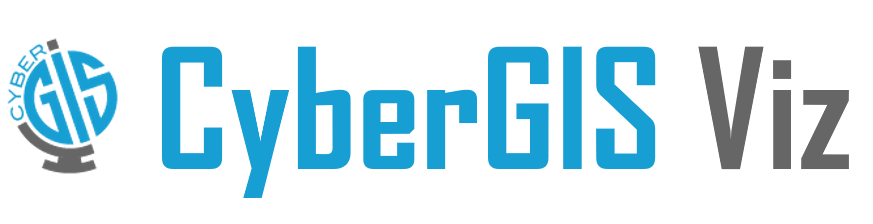
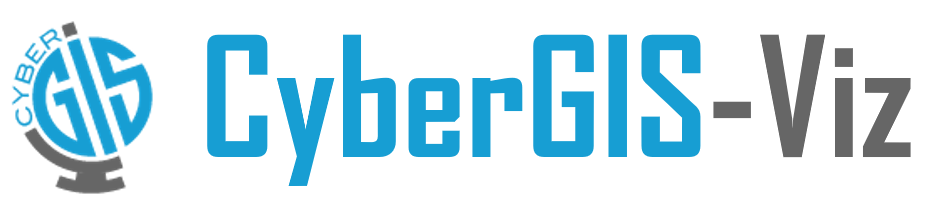
Update Readme

Changed region(s): [[0.0, 0.1132, 0.9897, 0.934]]

diff --git a/README.md b/README.md
@@ -1,21 +1,21 @@
-# CyberGIS Viz
+# CyberGIS-Viz
 
 <p align="center">
 <img height=100 src="images/CyberGIS_Viz.PNG" alt="CyberGIS_Viz.PNG"/>
 </p>
 
-<h2 align="center" style="margin-top:-10px">CyberGIS Viz is an an open-source JavaScript-based mapping tool that enables linking multiple maps and various charts.</h2> 
+<h2 align="center" style="margin-top:-10px">CyberGIS-Viz is an an open-source JavaScript-based mapping tool that enables linking multiple maps and various charts.</h2> 
 <br/>
+CyberGIS-Viz is a new stage of [GEOSNAP VIZ](https://github.com/spatialucr/geosnap-viz). Now the multiple linked views of [GEOSNAP VIZ](https://github.com/spatialucr/geosnap-viz) have been customized to visualize your own geospatial data set in CyberGIS-Viz. We provide a set of modules for the visualization of both quantitative and qualitative data. By using CyberGIS-Viz, you will be able to create side-by-side choropleth map visualizations for the comparison of multiple variables or spatiotemporal patterns. Various charts linked to multiple maps will also allow you to find new insight into your high-dimensional and spatiotemporal datasets. Your visualizations can be created using both Python and Javascript. Enjoy creating multiple maps and charts linked to one another in both languages!
 
-CyberGIS is a new stage of [GEOSNAP VIZ](https://github.com/spatialucr/geosnap-viz). The multiple linked views of [GEOSNAP VIZ](https://github.com/spatialucr/geosnap-viz) are customized to visualize your high dimensional and spatiotemporal geospatial data set. 
 <br/><br/>
 
 ## QuickStart
-### CyberGIS Viz_JS
+### CyberGIS-Viz_JS
 &nbsp;&nbsp;&nbsp;&nbsp;For Javascript users, example visaulizations are available in the two folders below:<br/>
 &nbsp;&nbsp;&nbsp;&nbsp;&nbsp;&nbsp;&nbsp;&nbsp;JS_Quantitative_Data_VIZ<br/>
 &nbsp;&nbsp;&nbsp;&nbsp;&nbsp;&nbsp;&nbsp;&nbsp;JS_Categorical_Data_VIZ<br/>
-### CyberGIS Viz_PYTHON
+### CyberGIS-Viz_PYTHON
 &nbsp;&nbsp;&nbsp;&nbsp;For python users, example visaulizations are available in the two folders below:
 &nbsp;&nbsp;&nbsp;&nbsp;&nbsp;&nbsp;&nbsp;&nbsp;PYTHON_Quantitative_Data_VIZ/Adaptive_Choropleth_Mapper.ipynb
 &nbsp;&nbsp;&nbsp;&nbsp;&nbsp;&nbsp;&nbsp;&nbsp;PYTHON_Categorical_Data_VIZ/Qualitative_Analysis_Mapper.ipynb
@@ -24,7 +24,7 @@ CyberGIS is a new stage of [GEOSNAP VIZ](https://github.com/spatialucr/geosnap-v
 &nbsp;&nbsp;&nbsp;&nbsp;You can run LinksPlot_PYTHON in your Jupyter Notebook installed in your PC as well as in CybearGISX.<br/>
 &nbsp;&nbsp;&nbsp;&nbsp;To use it in CyberGISX, follow steps below:
 1. If you do not have a CyerGISX account, create a CyberGISX an account with your GitHub id at https://cybergisxhub.cigi.illinois.edu
-2. Open up the CyberGIX, click the "new" button on the top right corner, and select python3 and enter the command line below to download CyberGIS Viz.
+2. Open up the CyberGIX, click the "new" button on the top right corner, and select python3 and enter the command line below to download CyberGIS-Viz.
 ```bash
 	!git clone https://github.com/cybergis/CyberGIS-Viz
 ```    
@@ -46,7 +46,7 @@ CyberGIS is a new stage of [GEOSNAP VIZ](https://github.com/spatialucr/geosnap-v
 <br/><br/>
 ## Visualization Modules
 <font color="green">
-Images below show visualizations that you can create using CyberGIS Viz. Click the image to see the full size.</font >
+Images below show visualizations that you can create using CyberGIS-Viz. Click the image to see the full size.</font >
 
 ###  Quntitative Data Visualization
 <ul>
@@ -99,7 +99,7 @@ Images below show visualizations that you can create using CyberGIS Viz. Click t
 
 ## Authors
 
-CyberGIS Viz has been developed based on [GEOSNAP VIZ](https://github.com/spatialucr/geosnap-viz) which was originally developed by Su Yeon Han, Sergio Rey, Elijah Knaap, Wei Kang, and other members at the [Center for Geospatial Sciences at the University of California, Riverside](https://spatial.ucr.edu/), and is being updated by members at the [CyberGIS Center](https://cybergis.illinois.edu/). Please contact Su Yeon Han at suhan2@illinois.edu for any questions.
+CyberGIS-Viz has been developed based on [GEOSNAP VIZ](https://github.com/spatialucr/geosnap-viz) which was originally developed by Su Yeon Han, Sergio Rey, Elijah Knaap, Wei Kang, and other members at the [Center for Geospatial Sciences at the University of California, Riverside](https://spatial.ucr.edu/), and is being updated by members at the [CyberGIS Center](https://cybergis.illinois.edu/). Please contact Su Yeon Han at suhan2@illinois.edu for any questions.
 
 
 ## License
